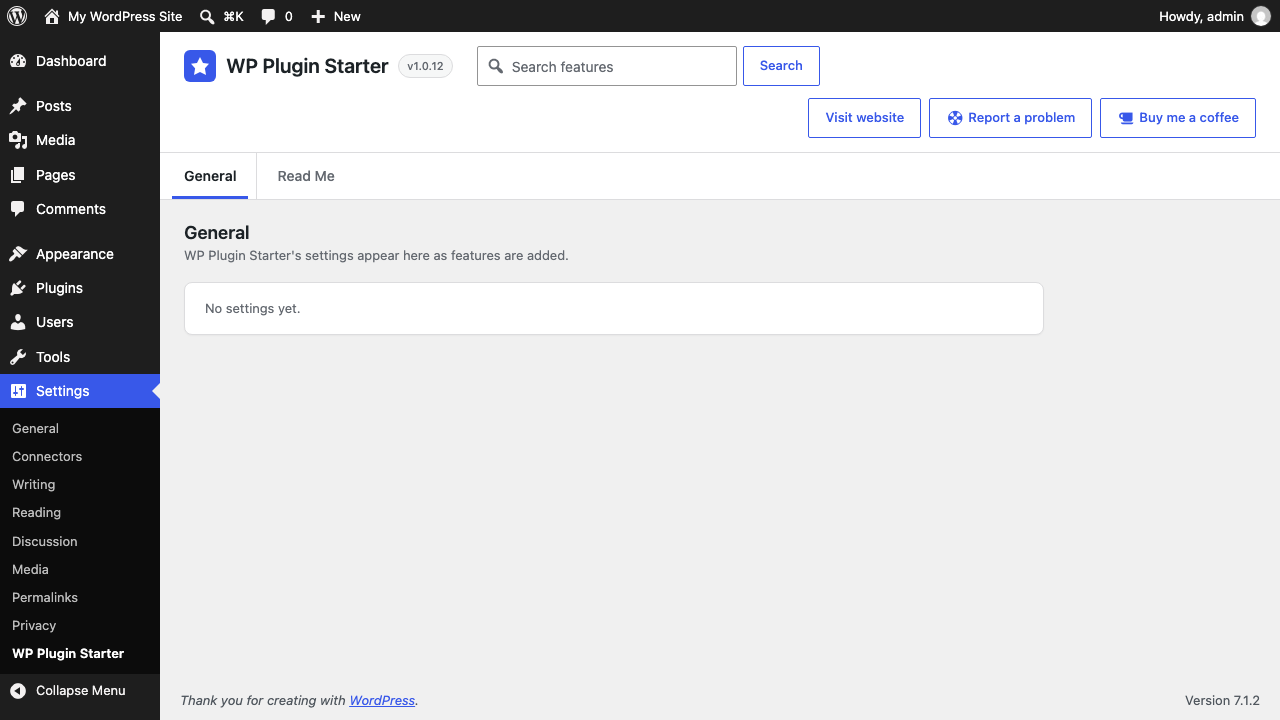
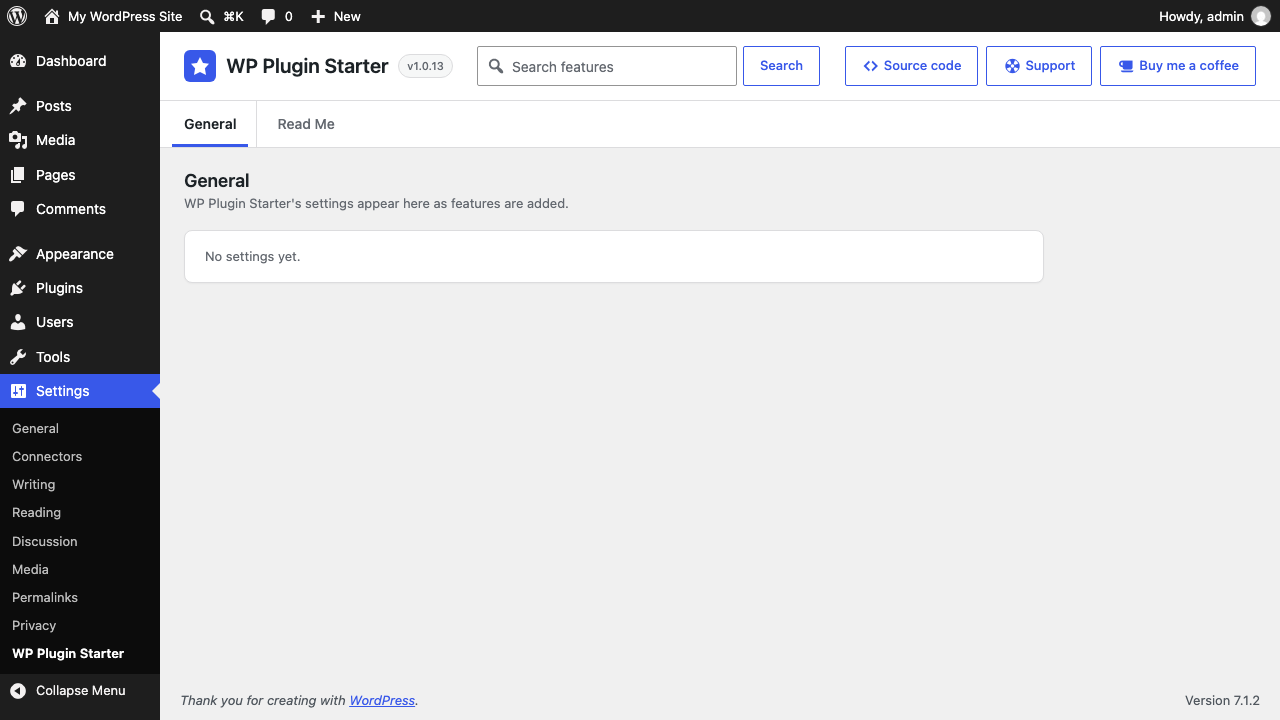
GH#339: fix: GitHub-update screenshot off WordPress.org; Source code and Support header buttons; README Version line; release 1.0.13

diff --git a/admin/includes/class-admin-manager.php b/admin/includes/class-admin-manager.php
@@ -296,7 +296,14 @@ class WPStarter_Admin_Manager {
                     <button type="submit" class="button wps-search__button"><?php esc_html_e('Search', 'wp-plugin-starter-template'); ?></button>
                 </form>
                 <div class="wps-header__actions">
-                    <?php if (!empty($links['website'])) : ?>
+                    <?php if (!empty($links['source'])) : ?>
+                        <a class="button wps-header__support" href="<?php echo esc_url($links['source']); ?>" target="_blank" rel="noopener noreferrer">
+                            <span class="dashicons dashicons-editor-code" aria-hidden="true"></span>
+                            <?php esc_html_e('Source code', 'wp-plugin-starter-template'); ?>
+                            <span class="screen-reader-text"><?php esc_html_e('(opens in a new tab)', 'wp-plugin-starter-template'); ?></span>
+                        </a>
+                    <?php elseif (!empty($links['website'])) : ?>
+                        <?php // Older {Prefix}_Setup classes link the maker's website instead. ?>
                         <a class="button" href="<?php echo esc_url($links['website']); ?>" target="_blank" rel="noopener noreferrer">
                             <?php esc_html_e('Visit website', 'wp-plugin-starter-template'); ?>
                             <span class="screen-reader-text"><?php esc_html_e('(opens in a new tab)', 'wp-plugin-starter-template'); ?></span>
@@ -305,7 +312,7 @@ class WPStarter_Admin_Manager {
                     <?php if (!empty($links['support'])) : ?>
                         <a class="button wps-header__support" href="<?php echo esc_url($links['support']); ?>" target="_blank" rel="noopener noreferrer">
                             <span class="dashicons dashicons-sos" aria-hidden="true"></span>
-                            <?php esc_html_e('Report a problem', 'wp-plugin-starter-template'); ?>
+                            <?php esc_html_e('Support', 'wp-plugin-starter-template'); ?>
                             <span class="screen-reader-text"><?php esc_html_e('(opens in a new tab)', 'wp-plugin-starter-template'); ?></span>
                         </a>
                     <?php endif; ?>

diff --git a/includes/class-wpstarter-setup.php b/includes/class-wpstarter-setup.php
@@ -54,7 +54,7 @@ final class WPStarter_Setup {
     /**
      * Links in the settings screen header; leave one out for no button.
      *
-     * - website: the maker's website
+     * - source:  the plugin's code (its GitHub repository)
      * - support: where people report problems (the plugin's GitHub issues)
      * - donate:  where people can support the maker
      *
@@ -62,7 +62,7 @@ final class WPStarter_Setup {
      */
     public static function header_links() {
         return array(
-            'website' => 'https://www.wpallstars.com/',
+            'source'  => 'https://github.com/wpallstars/wp-plugin-starter-template-for-ai-coding',
             'support' => 'https://github.com/wpallstars/wp-plugin-starter-template-for-ai-coding/issues',
             'donate'  => 'https://buymeacoffee.com/marcusquinn',
         );

diff --git a/wp-plugin-starter-template.php b/wp-plugin-starter-template.php
@@ -3,7 +3,7 @@
  * Plugin Name:       WP Plugin Starter
  * Plugin URI:        https://github.com/wpallstars/wp-plugin-starter-template-for-ai-coding
  * Description:       A clean start for a WordPress plugin: a settings screen, a Read Me tab, updates from GitHub and release scripts, ready for your features.
- * Version:           1.0.12
+ * Version:           1.0.13
  * Requires at least: 6.2
  * Requires PHP:      7.4
  * Author:            Marcus Quinn
@@ -32,7 +32,7 @@ if (!defined('ABSPATH')) {
     exit;
 }
 
-define('WPSTARTER_VERSION', '1.0.12');
+define('WPSTARTER_VERSION', '1.0.13');
 define('WPSTARTER_FILE', __FILE__);
 define('WPSTARTER_DIR', plugin_dir_path(__FILE__));
 define('WPSTARTER_URL', plugin_dir_url(__FILE__));

diff --git a/README.md b/README.md
@@ -24,12 +24,12 @@ WP Plugin Starter is what wpallstars plugins are made from. It has no features o
 
 If this saves you time, headaches and costs, feel free to [buy me a coffee](https://buymeacoffee.com/marcusquinn), or whatever you like, to invest in making more things open-source.
 
-Version: {WPSTARTER_VERSION}
+Version: 1.0.13
 
 <!-- github-only:start -->
 ## Screenshots
 
-**Settings → WP Plugin Starter**: the General tab, empty until features add settings, with search and the Report a problem link.
+**Settings → WP Plugin Starter**: the General tab, empty until features add settings, with search and the Source code, Support and Buy me a coffee links.
 
 ![The WP Plugin Starter settings screen on the General tab](.wordpress-org/screenshot-1.png)
 
@@ -37,9 +37,9 @@ Version: {WPSTARTER_VERSION}
 
 ![The Read Me tab showing README.md](.wordpress-org/screenshot-2.png)
 
-**Updates from GitHub**: each GitHub release is offered on the Plugins screen as a normal WordPress update.
+**Updates from GitHub** (GitHub build): each GitHub release is offered on the Plugins screen as a normal WordPress update.
 
-![The Plugins screen offering WP Plugin Starter 1.0.12 from GitHub](.wordpress-org/screenshot-3.png)
+![The Plugins screen offering WP Plugin Starter 1.0.12 from GitHub](docs/images/github-update.png)
 <!-- github-only:end -->
 
 ## What you get
@@ -57,7 +57,7 @@ Version: {WPSTARTER_VERSION}
 
 1. On GitHub, choose **Use this template** to make your repository, and clone it.
 2. Give it its names: `scripts/rename-plugin.sh --slug my-plugin --name "My Plugin" --prefix MyPlugin`. Add `--css mp` for a short CSS prefix and `--repo owner/repo` if it is not under wpallstars. Put in your own details too, or the plugin keeps the starter's: `--description`, `--author`, `--author-uri`, `--contributors` (WordPress.org usernames) and `--donate` (a link, or `none`); `--help` lists them all. The new plugin starts at version 0.1.0 (`--version` for another) with a changelog of its own. Review with `git diff`, then commit.
-3. Replace this README, `readme.txt`, `changelog.txt` and `AGENTS.md` with your plugin's own, and its banner (`.wordpress-org/banner.svg`, then `scripts/build-banner.sh`) and screenshots (`.wordpress-org/screenshot-N.png`, captions in `readme.txt`).
+3. Replace this README, `readme.txt`, `changelog.txt` and `AGENTS.md` with your plugin's own, and its banner (`.wordpress-org/banner.svg`, then `scripts/build-banner.sh`) and screenshots (`.wordpress-org/screenshot-N.png` with captions in `readme.txt`, and GitHub-only ones in `docs/images/`).
 4. Add features: a class in `includes/features/` listed in `MyPlugin_Setup::FEATURES` (see Developers below and `STANDARDS.md`).
 5. Keep the shared parts up to date: change them in the starter first, then run `scripts/sync-core.sh` in each plugin (`--check` lists what differs).
 
@@ -70,7 +70,7 @@ Go to **Settings → WP Plugin Starter**. The screen has two groups of tabs:
 - **Settings**: General, empty until features add settings. Changes save instantly; there is no Save button. **Search features** (next to the plugin name) finds settings on every tab.
 - **About**: this Read Me.
 
-**Report a problem**, at the top right of the screen, opens the plugin’s [GitHub issues](https://github.com/wpallstars/wp-plugin-starter-template-for-ai-coding/issues) in a new tab. Say what you did, what you expected and what happened, with the versions of WordPress, PHP and WP Plugin Starter. Leave out passwords, licence keys and personal data, since issues are public. For questions, ask [aidevops](https://aidevops.sh) (Built with AI below). **Buy me a coffee**, next to it, opens the maker’s [Buy Me a Coffee](https://buymeacoffee.com/marcusquinn) page in a new tab.
+At the top right of the screen, **Source code** opens the plugin’s [GitHub repository](https://github.com/wpallstars/wp-plugin-starter-template-for-ai-coding) in a new tab, and **Support** opens its [GitHub issues](https://github.com/wpallstars/wp-plugin-starter-template-for-ai-coding/issues) in a new tab. Say what you did, what you expected and what happened, with the versions of WordPress, PHP and WP Plugin Starter. Leave out passwords, licence keys and personal data, since issues are public. For questions, ask [aidevops](https://aidevops.sh) (Built with AI below). **Buy me a coffee**, next to it, opens the maker’s [Buy Me a Coffee](https://buymeacoffee.com/marcusquinn) page in a new tab.
 
 ## Requirements
 
@@ -88,7 +88,7 @@ The updater waits while Git Updater is active, so the two never both update a pl
 
 Releasing on GitHub:
 
-1. Merge the version change (`Version:` and `WPSTARTER_VERSION` in `wp-plugin-starter-template.php`, `Stable tag:` in `readme.txt`) to `main`.
+1. Merge the version change (`Version:` and `WPSTARTER_VERSION` in `wp-plugin-starter-template.php`, `Stable tag:` in `readme.txt`, `Version:` near the top of this file) to `main`.
 2. Straight away, tag that commit `vX.Y.Z` and push the tag. The Release workflow (`.github/workflows/release.yml`) builds `wp-plugin-starter-template-X.Y.Z.zip` from the tag with `scripts/build-release.sh` (`.distignore` applied, everything inside a `wp-plugin-starter-template/` folder), checks it with `scripts/preflight-release.sh` and publishes the GitHub release with it attached; in a public repository it also attaches signed build provenance, which `gh attestation verify` checks. Sites pick the latest release whose tag is a plain version number and the asset named exactly `wp-plugin-starter-template-X.Y.Z.zip`, so never attach the WordPress.org zip. Full steps: `RELEASING.md`.
 3. Sites offer the update when they next check (within 12 hours, or at once with **Check again** on the Updates screen).
 
@@ -126,10 +126,12 @@ Deleting the plugin removes its settings, its cached data, who hid lines of the 
 
 ## Changelog
 
-### Unreleased
+### 1.0.13
 
-- New: screenshots at the top of this README on GitHub and in `readme.txt` → Screenshots, saved as `.wordpress-org/screenshot-N.png` (WordPress.org's `assets/` names; not in the release zip).
+- New: screenshots at the top of this README on GitHub and in `readme.txt` → Screenshots, saved as `.wordpress-org/screenshot-N.png` (WordPress.org's `assets/` names; not in the release zip). The Updates from GitHub one is GitHub-only, in `docs/images/`, since the WordPress.org build has no GitHub updater.
+- Changed: the settings screen's header buttons are **Source code** (the GitHub repository) and **Support** (GitHub issues), with **Buy me a coffee**, on one row. Developers: `{Prefix}_Setup::header_links()` takes a `source` link; an older `website` link still shows as Visit website when there is no `source`.
 - Developers: the Read Me tab leaves out anything between `<!-- github-only:start -->` and `<!-- github-only:end -->`, like the badges block, for parts of `README.md` that only make sense on GitHub.
+- Developers: `README.md`'s `Version:` line holds the version itself, so GitHub shows it; `scripts/preflight-release.sh` checks it and `scripts/rename-plugin.sh` sets it.
 
 ### 1.0.12
 

diff --git a/STANDARDS.md b/STANDARDS.md
@@ -83,7 +83,15 @@ How changes are made and checked: `DEVELOPMENT.md`. Releases: `RELEASING.md`.
   anything between `<!-- github-only:start -->` and `<!-- github-only:end -->`,
   for GitHub-only parts such as the screenshots section: screenshots are
   `.wordpress-org/screenshot-N.png` (WordPress.org's `assets/` names, captions
-  in `readme.txt` → Screenshots), which the release zip leaves out.
+  in `readme.txt` → Screenshots), which the release zip leaves out. They show
+  only what the WordPress.org build shows; GitHub-only pictures, such as
+  Updates from GitHub, go in `docs/images/` with no caption in `readme.txt`.
+  The `Version: X.Y.Z` line under the intro holds the version itself (GitHub
+  shows it as written) and changes with every release (`RELEASING.md`).
+- The settings screen's header links come from `{Prefix}_Setup::header_links()`:
+  `source` (the GitHub repository, **Source code**), `support` (its issues,
+  **Support**) and `donate` (**Buy me a coffee**); leave one out for no
+  button. Keep the labels short so the buttons fit on one row.
 - Update `README.md` (feature section, hooks, changelog), `changelog.txt`
   (the user-facing changelog entry) and `readme.txt` in the same change.
   `readme.txt` must stay under 10 KB for WordPress.org: one short line per

diff --git a/RELEASING.md b/RELEASING.md
@@ -42,7 +42,8 @@ expected there and fails on the updater findings in the WordPress.org zip.
 ## GitHub release
 
 1. In a pull request, set the version in `{slug}.php` (`Version:` and
-   `{PREFIX}_VERSION`) and `readme.txt` (`Stable tag:`), rename the
+   `{PREFIX}_VERSION`), `readme.txt` (`Stable tag:`) and `README.md` (the
+   `Version:` line under the intro, which GitHub shows as written), rename the
    changelog's Unreleased section to the version in `readme.txt`,
    `changelog.txt` and `README.md`, and add an upgrade notice if people need
    to act. `readme.txt` keeps only the newest version, in short, and must stay
